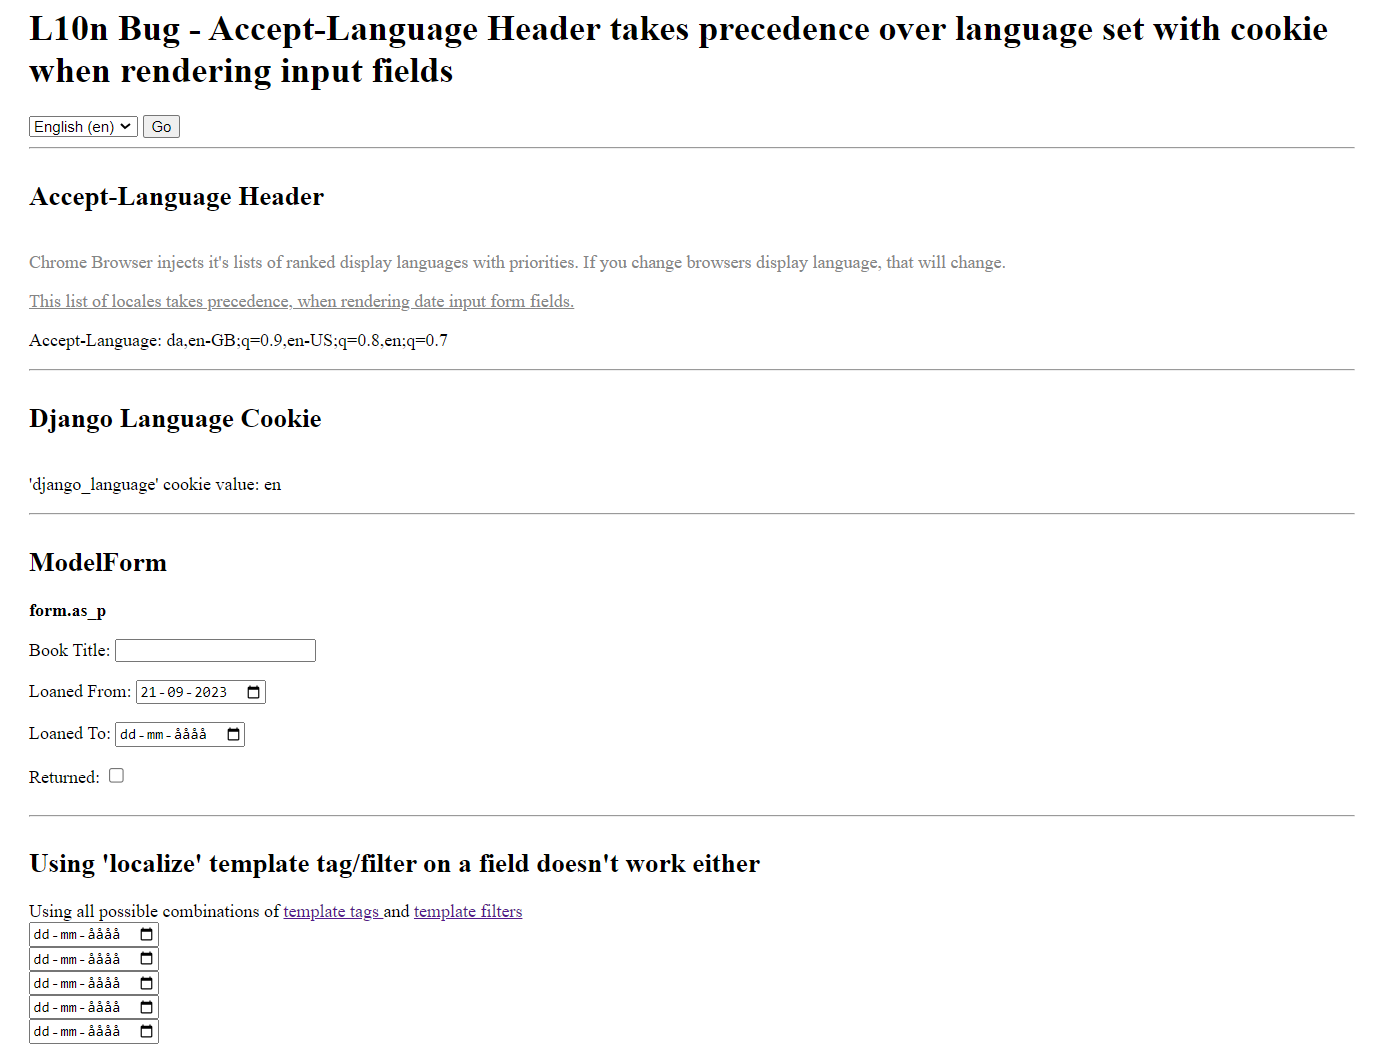
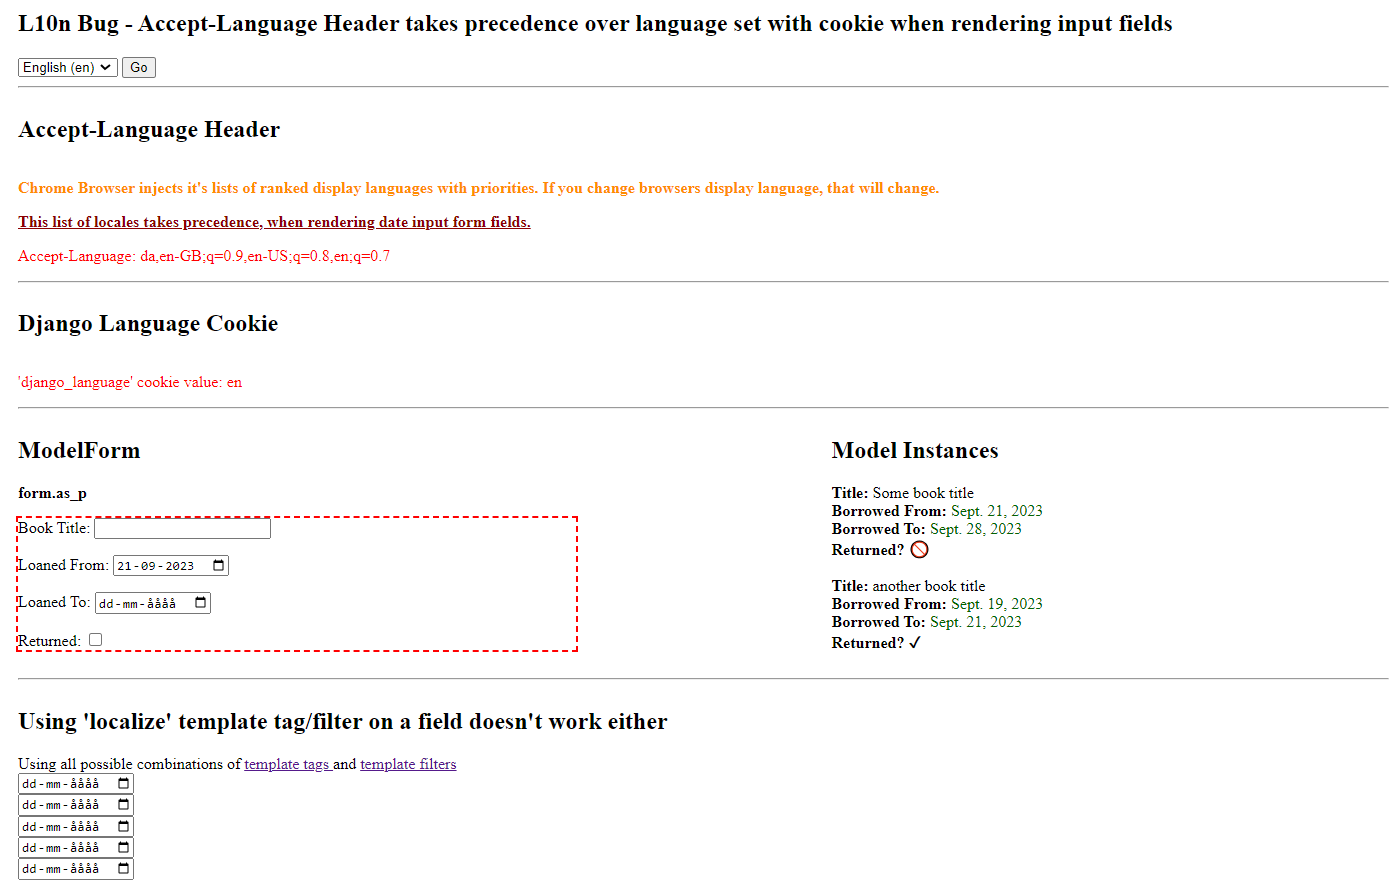
Add colors for emphasis

Changed region(s): [[0.0, 0.0, 0.968, 1.0], [0.5933, 0.5492, 0.7495, 0.7322]]

diff --git a/templates/bug_display.html b/templates/bug_display.html
@@ -1,0 +1,86 @@
+{% extends 'base.html' %}
+{% load i18n %}
+{% load l10n %}
+{% block content %}
+  <div>
+    <hr>
+  </div>
+  <h2>Accept-Language Header</h2>
+  <div>
+    <p style="color: darkorange; font-weight: bold;">Chrome Browser injects it's lists of ranked display languages with priorities. If you
+                              change browsers display language, that will change.</p>
+    <p style="color: darkred; font-weight: bold;text-decoration: underline;">This list of locales takes precedence, when rendering date
+                                                           input form fields.</p>
+    <p style="color: red;">Accept-Language: {{ request.META.HTTP_ACCEPT_LANGUAGE }}</p>
+    <hr>
+  </div>
+  <h2>Django Language Cookie</h2>
+  <div>
+    <p style="color: red;">'django_language' cookie value: {{ request.COOKIES.django_language }}</p>
+    <hr>
+  </div>
+  <div style="display: grid; grid-template-columns: 1fr 1fr; gap: 16rem; flex-direction: column;">
+    <div>
+      <h2>ModelForm</h2>
+      <p style="font-weight: 700;">form.as_p</p>
+      <div style="outline: red dashed 2px">{{ form.as_p }}</div>
+    </div>
+    <div>
+      <h2>Model Instances</h2>
+      {% for book in all_books %}
+        <div>
+          <div><span style="font-weight: bold;">{% trans 'Title' %}:</span> <span>{{ book.title }}</span></div>
+          <div><span style="font-weight: bold;">{% trans 'Borrowed From' %}:</span> <span style="color:darkgreen;">{{ book.borrowed_from_date }}</span></div>
+          <div><span style="font-weight: bold;">{% trans 'Borrowed To' %}:</span> <span style="color:darkgreen;">{{ book.borrowed_to_date }}</span></div>
+          <div><span style="font-weight: bold;">{% trans 'Returned' %}?</span> {% if book.is_returned %}✔{% else %}🚫{% endif %}</div>
+          <br />
+        </div>
+      {% endfor %}
+    </div>
+  </div>
+  <div>
+    <hr>
+  </div>
+  <div style="display: flex; flex-direction:column;justify-content: space-between">
+    <h2>Using 'localize' template tag/filter on a field doesn't work either</h2>
+    <div>Using all possible combinations of
+      <a href="https://docs.djangoproject.com/en/4.2/topics/i18n/formatting/#template-tags">
+        template tags
+      </a>
+         and
+      <a href="https://docs.djangoproject.com/en/4.2/topics/i18n/formatting/#template-filters">
+        template filters
+      </a>
+    </div>
+  </div>
+
+  <div style="display: flex; flex-direction: column;">
+
+    <span>
+      {{ form.borrowed_to_date }}
+    </span>
+
+    <span>
+      {{ form.borrowed_to_date|localize }}
+    </span>
+
+    <span>
+      {% localize off %}
+        {{ form.borrowed_to_date }}
+      {% endlocalize %}
+    </span>
+
+    <span>
+      {% localize off %}
+        {{ form.borrowed_to_date }}
+      {% endlocalize %}
+    </span>
+
+    <span>
+      {% localize on %}
+        {{ form.borrowed_to_date }}
+      {% endlocalize %}
+    </span>
+
+  </div>
+{% endblock %}

diff --git a/templates/base.html b/templates/base.html
@@ -12,8 +12,8 @@
 <body>
 <div
     style="display: flex; flex-direction: column; justify-content: space-between; justify-items: center; margin-inline: 16rem;">
-  <h1>L10n Bug - Accept-Language Header takes precedence over language set with cookie when rendering input fields</h1>
-
+  <h1>Date Input Fields Does Not Localize</h1>
+  <h2>L10n Bug - Accept-Language Header takes precedence over language set with cookie when rendering input fields</h2>
   <form action="{% url 'set_language' %}" method="post">{% csrf_token %}
     <input name="next" type="hidden" value="{{ redirect_to }}">
     <select name="language">

diff --git a/book_store/views.py b/book_store/views.py
@@ -1,6 +1,7 @@
 from django.shortcuts import render, redirect
 
 from book_store.forms import BookForm
+from book_store.models import Book
 
 
 def create_book(request):
@@ -12,12 +13,13 @@ def create_book(request):
         else:
             # Add message
             return redirect(request.META.get("HTTP_REFERER", request.path_info))
-
+    all_books = Book.objects.all()
     form = BookForm()
     return render(
         request,
-        template_name="create_book.html",
+        template_name="bug_display.html",
         context={
             "form": form,
+            "all_books": all_books,
         },
     )

diff --git a/book_store/migrations/0002_alter_book_borrowed_from_date.py b/book_store/migrations/0002_alter_book_borrowed_from_date.py
@@ -1,0 +1,19 @@
+# Generated by Django 4.2.5 on 2023-09-21 17:08
+
+import datetime
+from django.db import migrations, models
+
+
+class Migration(migrations.Migration):
+
+    dependencies = [
+        ('book_store', '0001_initial'),
+    ]
+
+    operations = [
+        migrations.AlterField(
+            model_name='book',
+            name='borrowed_from_date',
+            field=models.DateField(default=datetime.date(2023, 9, 21)),
+        ),
+    ]

diff --git a/book_store/models.py b/book_store/models.py
@@ -1,3 +1,5 @@
+import datetime
+
 from django.db import models
 from django.utils import timezone
 
@@ -9,7 +11,7 @@ class Book(models.Model):
         max_length=60
     )
     borrowed_from_date = models.DateField(
-        default=timezone.now,
+        default=datetime.date.today(),
         blank=False,
         null=False,
     )

diff --git a/README.md b/README.md
@@ -3,12 +3,18 @@
 
 This is a minimal example of a previously submitted bug - the original issue can be found here: https://code.djangoproject.com/ticket/34853
 
-In the image below, the language and locale is set to **en-US** but the form fields are localized to **da_DK**. The docs make no mention that this should be the expected behaviour. I have found that output localizations, such as times and dates strings are localized properly as they shoulds.
+In the image below, the language and locale is set to **en-US** but the form fields are localized to **da_DK**. The docs make no mention that this should be the expected behaviour. I also show that output localizations, such as times and dates strings are localized properly as they should (see green text in images).
 
 - da_DK uses a dateformat of dd-MM-yyyy
 - en_US uses a dateformat of mm/dd/yyyy
 
+## en_US
+This is where the bug is visible.
 ![en.PNG](en.PNG)
+
+## da_DK
+This shows up correct, as my browsers locale is the same as the django language.
+![da.PNG](en.PNG)
 
 ## settings.py
 ```python
@@ -45,7 +51,7 @@ class Book(models.Model):
         max_length=60
     )
     borrowed_from_date = models.DateField(
-        default=timezone.now,
+        default=datetime.date.today(),
         blank=False,
         null=False,
     )
